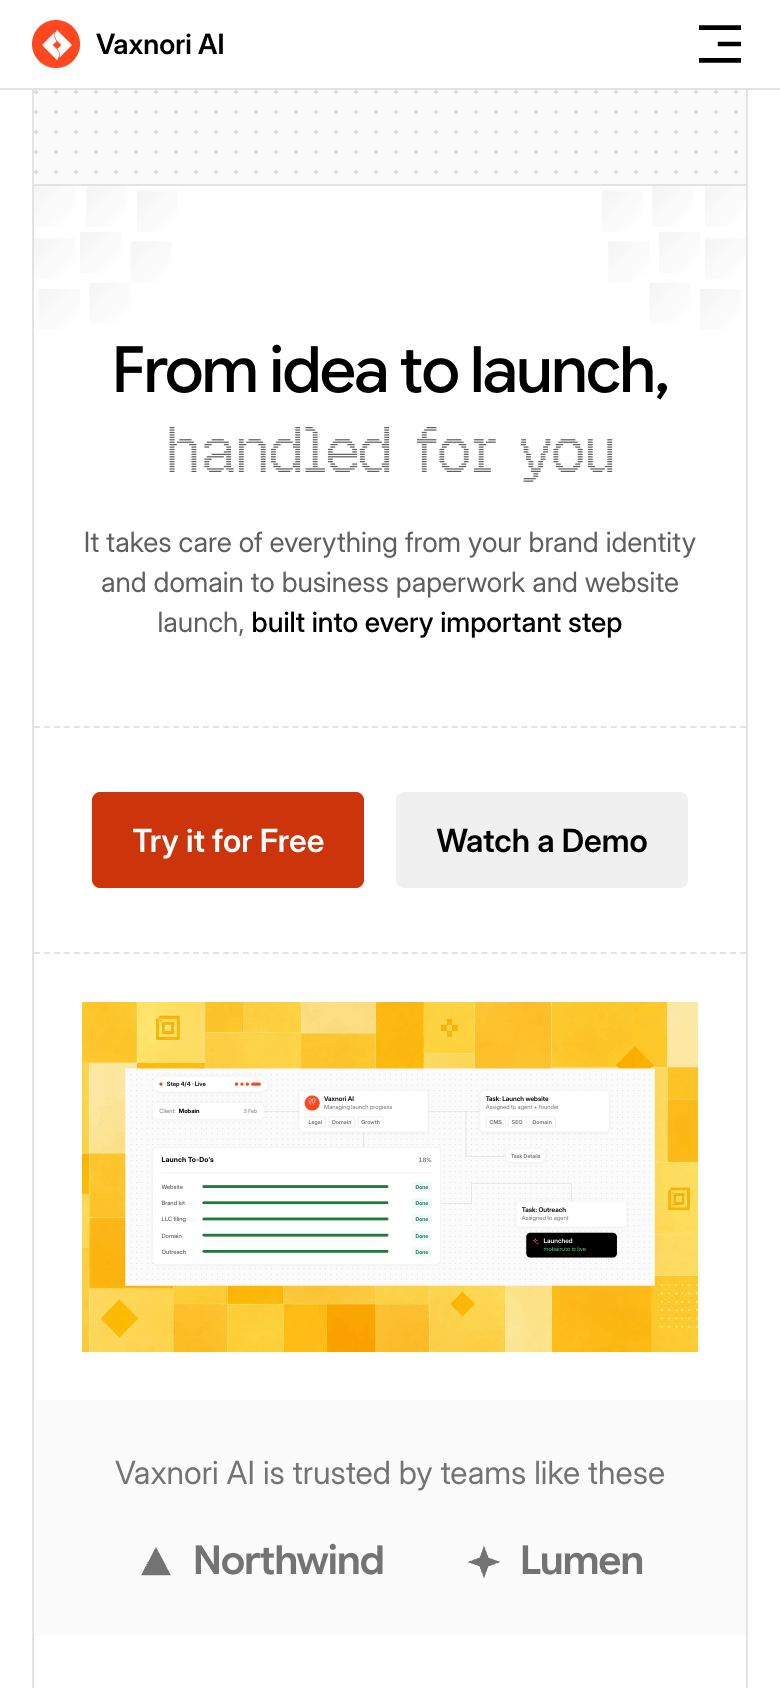
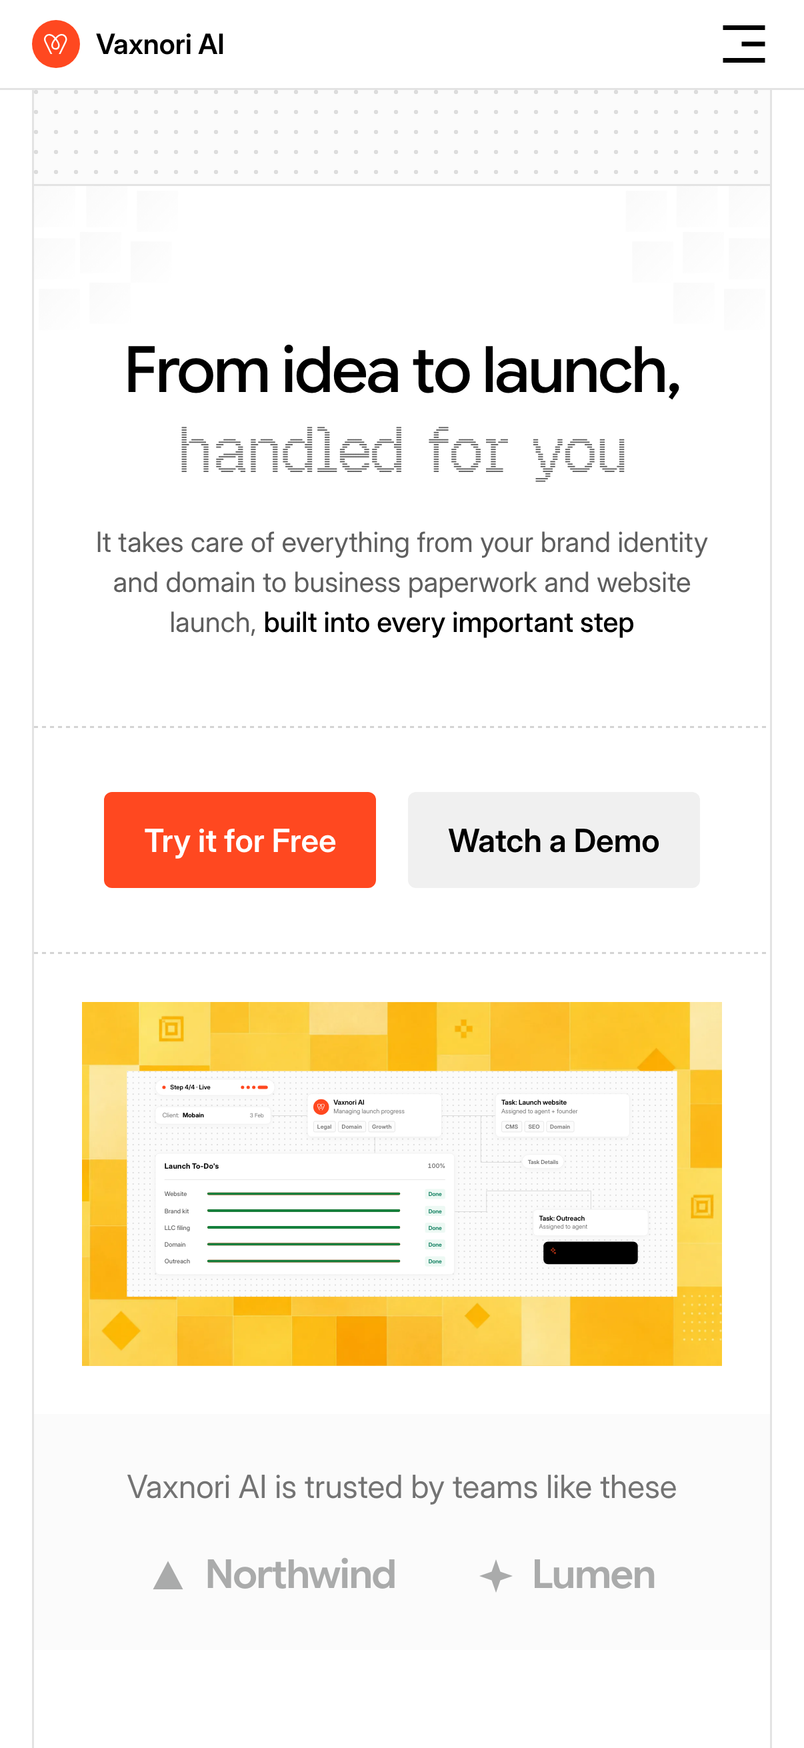
Phase 9: theme README, AGENTS.md/CLAUDE.md, new previews, docs/DECISIONS.md

diff --git a/README.md b/README.md
@@ -1,43 +1,239 @@
-# Astro Starter Kit: Minimal
+# Vaxnori AI – Astro Theme for AI and SaaS
 
-```sh
-npm create astro@latest -- --template minimal
+A free, open-source Astro theme for AI and SaaS products: 13 page types (25 pages with the sample content), smooth animations with almost no JavaScript, an MDX blog and careers section, and a design you can rebrand from one config folder.
+
+![Vaxnori AI Astro theme preview](.github/preview.png)
+
+**Live demo:** https://vaxnori-astro-theme.vercel.app
+
+No environment variables, no database, no paid services and no server are needed. The theme builds to plain static files and deploys anywhere.
+
+---
+
+## Quick start
+
+Requirements: **Node.js 22.23.4 or newer** (see `.nvmrc`).
+
+```bash
+npm create astro@latest -- --template WavespaceAgency/vaxnori-astro-theme
+cd <your-project-name>
+npm install
+npm run dev
 ```
 
-> 🧑🚀 **Seasoned astronaut?** Delete this file. Have fun!
+Open http://localhost:4321.
 
-## 🚀 Project Structure
+| Command | What it does |
+| --- | --- |
+| `npm run dev` | Start the development server |
+| `npm run build` | Build the static site into `dist/` |
+| `npm run preview` | Preview the production build locally |
+| `npm run check` | Type-check the project (`astro check`) |
 
-Inside of your Astro project, you'll see the following folders and files:
+### Deploy
 
-```text
-/
-├── public/
-├── src/
-│   └── pages/
-│       └── index.astro
-└── package.json
+[![Deploy with Vercel](https://vercel.com/button)](https://vercel.com/new/clone?repository-url=https%3A%2F%2Fgithub.com%2FWavespaceAgency%2Fvaxnori-astro-theme&project-name=vaxnori-astro-theme&repository-name=vaxnori-astro-theme)
+[![Deploy to Netlify](https://www.netlify.com/img/deploy/button.svg)](https://app.netlify.com/start/deploy?repository=https://github.com/WavespaceAgency/vaxnori-astro-theme)
+
+Any static host works (Cloudflare Pages, GitHub Pages, your own server): build command `npm run build`, output folder `dist`.
+
+---
+
+## Features
+
+**Pages**
+
+| Page | What's on it |
+| --- | --- |
+| Home | Animated product preview, logo marquee, product tabs, stats, how it works, testimonial, feature rows, integrations, FAQ |
+| About | Principles, story timeline, stats, team |
+| How it works | Video block (opens in a dialog), step-by-step rows, FAQ |
+| Pricing | Monthly / annual switch, plan cards, comparison table, FAQ |
+| Blog + post | Category filter, "load older posts", reading layout with "On this page", related posts, RSS |
+| Careers + job | Tabs with animated mockups, open roles, benefits, hiring process, job page with compensation card |
+| Contact | Contact channels, validated form, office card, locations |
+| FAQ, Privacy, Terms, 404 | Grouped accordion, legal pages with a sticky contents list |
+
+**Built with**
+
+- **Astro 7** – static output, zero UI framework (no React)
+- **Tailwind CSS 4** and **TypeScript** (strict)
+- **Motion** (plain JavaScript API) for animations – about 32 KB of JavaScript on the home page, and every animation respects "reduce motion"
+- **Content collections** with MDX for blog posts, job posts and legal pages
+- **Fontsource** fonts, self-hosted: Inter, Google Sans Flex and Geist Pixel (SIL Open Font License)
+- **astro:assets** images: AVIF/WebP, responsive sizes, width and height set (no layout shift)
+
+**Quality**
+
+- Lighthouse (mobile): Performance 99–100, Best Practices 100, SEO 100, Accessibility 96–97 (see [Colours and contrast](#colours-and-contrast))
+- Full keyboard support, skip link, visible focus, accessible menu, tabs, accordion and video dialog
+- SEO: title, description, canonical URL and Open Graph on every page, sitemap, `robots.txt`, RSS, share image per blog post,
+  JSON-LD (Organization, WebSite, FAQPage, BlogPosting, JobPosting)
+- Responsive from 320 px to 1920 px, tested at 12 widths with no horizontal scroll
+- Content first: all text, links and images are in the HTML (good for SEO); animations and interactions are small scripts added on top
+
+<img src=".github/mobile.png" alt="Vaxnori AI theme on a phone" width="260" />
+
+---
+
+## Customisation guide
+
+You can rebrand the whole theme without touching the components.
+
+### 1. Site name, links and footer – `src/config/site.ts`
+
+Name, legal name, description, email, navbar links, mobile menu, footer columns, social links, the main call to action and the two brand marks.
+
+### 2. Page text and data – `src/config/pages/*.ts`
+
+One file per page: `home.ts`, `about.ts`, `how-it-works.ts`, `pricing.ts`, `blog.ts`, `careers.ts`, `contact.ts`, `faq.ts`.
+Every heading, paragraph, button, plan, price, FAQ answer and image path lives here.
+The animated mockups (hero preview, step cards, feature rows) read their labels, numbers and steps from `home.ts` too.
+
+### 3. Colours, type and spacing – `src/styles/global.css`
+
+All design tokens are CSS variables at the top of the file:
+
+```css
+--brand: #ff4820;        /* decorative orange: shapes, icons, fills */
+--brand-strong: #ff4820; /* buttons and small orange text */
+--ink: #000000;          /* headings */
+--muted: #5e5e5e;        /* body text */
+--canvas: #fbfbfb;       /* light section background */
+--line: #e3e3e3;         /* borders */
 ```
 
-Astro looks for `.astro` or `.md` files in the `src/pages/` directory. Each page is exposed as a route based on its file name.
+Change them and the whole site follows. The type scale, radii, shadows and container width are in the `@theme` block below.
 
-There's nothing special about `src/components/`, but that's where we like to put any Astro/React/Vue/Svelte/Preact components.
+### Colours and contrast
 
-Any static assets, like images, can be placed in the `public/` directory.
+The theme uses the exact colours of the original design. White text on the orange `#ff4820` has a contrast of 3.4:1,
+which is below the WCAG AA level (4.5:1) for small text. For full WCAG AA contrast, set
+`--brand-strong: #cc340b` and `--grey-3: #737373` in `src/styles/global.css`.
 
-## 🧞 Commands
+### 4. Fonts – `src/styles/global.css`
 
-All commands are run from the root of the project, from a terminal:
+Fonts come from [Fontsource](https://fontsource.org). To change one, install another package
+(for example `npm install @fontsource-variable/manrope`), import it at the top of `global.css`
+and update `--font-sans`, `--font-heading` or `--font-pixel`.
 
-| Command                   | Action                                           |
-| :------------------------ | :----------------------------------------------- |
-| `npm install`             | Installs dependencies                            |
-| `npm run dev`             | Starts local dev server at `localhost:4321`      |
-| `npm run build`           | Build your production site to `./dist/`          |
-| `npm run preview`         | Preview your build locally, before deploying     |
-| `npm run astro ...`       | Run CLI commands like `astro add`, `astro check` |
-| `npm run astro -- --help` | Get help using the Astro CLI                     |
+### 5. Images and logos
 
-## 👀 Want to learn more?
+| Location | Contents |
+| --- | --- |
+| `src/assets/images/` | Page images, grouped by page. Astro optimises them. Config files refer to them as `/images/...` |
+| `public/brand/` | `mark.svg` (desktop) and `mark-alt.svg` (mobile, stats) |
+| `public/favicon.svg` | Favicon |
+| `public/og.png` | Default share image (1200×630) |
 
-Feel free to check [our documentation](https://docs.astro.build) or jump into our [Discord server](https://astro.build/chat).
+The placeholder customer logos on Home are drawn in code – replace `homePage.logos` in `src/config/pages/home.ts`.
+
+### 6. Add a blog post
+
+Create `src/content/blog/my-post.mdx`:
+
+```mdx
+---
+title: "My first post"
+excerpt: "One or two sentences for the card and search engines."
+category: "Launch playbooks" # one of the tabs in src/config/pages/blog.ts
+date: "2026-10-01"
+readingTime: "4 min read"
+image: "../../assets/images/blog/my-post.webp" # 1456×800 works best
+imageAlt: "Describe the image"
+author:
+  name: "Your Name"
+  avatar: "../../assets/images/blog/author.webp"
+---
+
+Write your post in **Markdown**. `## Headings` appear in "On this page".
+```
+
+The file name becomes the URL (`/blog/my-post`). The post is added to the blog list, the sitemap and the RSS feed,
+and gets its own share image. Set `featured: true` to show it at the top of the blog page.
+In MDX you can also use `<Figure>`, `<Callout>` and `<Timeline>` (see `src/components/mdx/`).
+
+### 7. Add a job
+
+Copy any file in `src/content/careers/`, rename it (the file name is the URL) and edit the frontmatter and text.
+It appears in the roles table automatically. Use `order` to sort the roles.
+
+### 8. Legal pages
+
+Edit `src/content/legal/privacy.mdx` and `terms.mdx`. The sample text is a placeholder – have it reviewed by your own lawyer.
+
+### 9. Forms
+
+The contact form and the newsletter form check the fields in the browser. To receive the messages, open
+`src/components/contact/ContactForm.astro` (`send()`) and `src/components/layout/NewsletterForm.astro` (`subscribe()`)
+and connect your provider at the `TODO` (a form service such as Formspree or Web3Forms, Resend, Mailchimp, a webhook, …).
+
+### 10. Video
+
+Add an `.mp4` file or a YouTube/Vimeo embed URL to `video.src` in `src/config/pages/how-it-works.ts`.
+The video only loads when someone opens it.
+
+### 11. Site URL
+
+Set `site` in `astro.config.mjs` to your domain (or set the `SITE_URL` environment variable).
+It is used for canonical links, the sitemap, RSS and share images. On Vercel the production URL is detected automatically.
+
+### 12. Animations
+
+Add `data-reveal` to any element to fade it in on scroll, or `data-stagger` on a list with `data-stagger-item` on its items.
+All options are documented at the top of `src/scripts/motion.ts`.
+
+---
+
+## Project structure
+
+```
+src/
+  pages/                Routes: pages, blog/[slug], careers/[slug], 404, rss.xml, robots.txt, manifest
+  layouts/              BaseLayout.astro – <head>, SEO tags, JSON-LD, header, footer
+  components/
+    layout/             Header, desktop nav, mobile menu, footer, newsletter form
+    sections/           Page sections (hero, pricing, FAQ, CTA, animated mockups, …)
+    blog/ careers/ contact/
+    mdx/                Styles for MDX content + <Figure>, <Callout>, <Timeline>
+    motion/             ScaleToFit (fixed-size mockups that scale on phones)
+    ui/                 Button, container, eyebrow, badge, heading, accordion, logo
+    icons/              Brand marks, UI icons and line icons
+  config/
+    site.ts             Name, URL, navigation, footer, socials
+    pages/*.ts          Text and data for every page
+  content/
+    blog/*.mdx          Blog posts
+    careers/*.mdx       Job posts
+    legal/*.mdx         Privacy and terms
+  content.config.ts     Content collections and their fields
+  scripts/              motion.ts (scroll reveals, count-up, scale) and loop.ts (mockup loops)
+  lib/                  Content helpers, image lookup, SEO helpers, utils
+  assets/images/        Optimised images
+  styles/global.css     Tailwind, fonts and design tokens
+public/                 Brand marks, favicon, share image, SVG patterns
+docs/DECISIONS.md       Design and build notes (what changed from the Figma file and why)
+```
+
+---
+
+## Credits
+
+- **Design:** Vaxnori AI by [Wavespace](https://www.wavespace.agency)
+- **Fonts:** [Inter](https://fonts.google.com/specimen/Inter), [Google Sans Flex](https://fonts.google.com/specimen/Google+Sans+Flex),
+  [Geist Pixel](https://fonts.google.com/specimen/Geist+Pixel) – SIL Open Font License 1.1, via Fontsource
+- **Images:** AI-generated or made by Wavespace for this theme – free to use with the theme
+- **Icons:** custom line icons in `src/components/icons/`
+- **Customer logos:** neutral placeholders (Acme, Logoipsum, …) – not real companies
+
+**Footer credit:** the footer shows "Designed & developed by Wavespace". You are free to keep, change or remove it –
+edit or delete `credit` in `siteConfig.footer` (`src/config/site.ts`). The MIT license only asks you to keep the
+`LICENSE` file, not the footer line.
+
+All names, numbers, quotes and people in the sample content are fictional.
+
+A Next.js version of this design is also available: [vaxnori-nextjs-template](https://github.com/WavespaceAgency/vaxnori-nextjs-template).
+
+## License
+
+[MIT](LICENSE) © 2026 Wavespace

diff --git a/AGENTS.md b/AGENTS.md
@@ -1,22 +1,57 @@
-## Development
+# AGENTS.md – notes for AI coding agents
 
-When starting the dev server, use background mode:
+Vaxnori AI is a static Astro theme (marketing site for an AI/SaaS product). Read this before changing code.
 
+## Stack
+
+- Astro 7, static output (no adapter, no server code, no environment variables required)
+- Tailwind CSS 4 via `@tailwindcss/vite`; design tokens in `src/styles/global.css`
+- TypeScript strict; MDX via `@astrojs/mdx`; sitemap and RSS
+- Animations: `motion` (plain JS API) inside Astro `<script>` tags. **No React or other UI framework** – keep it that way.
+
+## Commands
+
+```bash
+npm run dev       # dev server on http://localhost:4321 (use `astro dev --background` for a background server)
+npm run check     # astro check – must report 0 errors
+npm run build     # static build into dist/ – must finish without warnings
+npm run preview   # serve dist/
 ```
-astro dev --background
-```
 
-Manage the background server with `astro dev stop`, `astro dev status`, and `astro dev logs`.
+Run `npm run check` and `npm run build` after every change.
 
-## Documentation
+## Where things live
 
-Full documentation: https://docs.astro.build
+| What | Where |
+| --- | --- |
+| Site name, nav, footer, socials, CTA | `src/config/site.ts` |
+| All page text and data | `src/config/pages/*.ts` |
+| Colours, fonts, type scale, radii | `src/styles/global.css` |
+| Blog posts / jobs / legal pages | `src/content/{blog,careers,legal}/*.mdx` (schemas in `src/content.config.ts`) |
+| Pages and routes | `src/pages/` |
+| `<head>`, SEO, JSON-LD, header and footer | `src/layouts/BaseLayout.astro` |
+| Sections / UI / layout components | `src/components/{sections,ui,layout}/` |
+| MDX element styles and custom tags | `src/components/mdx/` |
+| Scroll animations (data attributes) | `src/scripts/motion.ts` |
+| Mockup loop helpers | `src/scripts/loop.ts` |
+| Images (optimised) | `src/assets/images/`, looked up by path with `getImage()` from `src/lib/images.ts` |
+| Build and design decisions | `docs/DECISIONS.md` |
 
-Consult these guides before working on related tasks:
+## Rules
 
-- [Adding pages, dynamic routes, or middleware](https://docs.astro.build/en/guides/routing/)
-- [Working with Astro components](https://docs.astro.build/en/basics/astro-components/)
-- [Using React, Vue, Svelte, or other framework components](https://docs.astro.build/en/guides/framework-components/)
-- [Adding or managing content](https://docs.astro.build/en/guides/content-collections/)
-- [Adding styles or using Tailwind](https://docs.astro.build/en/guides/styling/)
-- [Supporting multiple languages](https://docs.astro.build/en/guides/internationalization/)
+1. **Config-driven:** never hard-code visible text in components. Put it in `src/config/` or a content file and pass it as props.
+2. **Use the tokens:** use the Tailwind classes generated from the tokens (`bg-brand`, `text-ink`, `border-line`, `font-heading-flex`,
+   `text-h2`, `rounded-card` …) instead of new hex values.
+3. **Images:** put new images in `src/assets/images/` and render them with `<Image />` from `astro:assets` (set `widths` and `sizes`).
+4. **Animations:** prefer the data attributes (`data-reveal`, `data-stagger` + `data-stagger-item`, `data-count`).
+   New scripts must respect reduced motion (`reduceMotion()` from `src/scripts/motion.ts`) and must not hide content without JavaScript.
+5. **Accessibility:** one `h1` per page, headings in order, real `<a>` and `<button>`, labels on inputs, `aria-*` on toggles,
+   visible focus. Keep the skip link.
+6. **Whitespace in templates:** inside `{ … }` expressions Astro follows JSX whitespace rules – write `{" "}` between
+   text and a following tag (for example `{title}{" "}<span>…</span>`).
+7. **Placeholder data only:** emails and URLs use `example.com`; social links point to the platform home page.
+8. Keep the theme dependency-light and every dependency public and MIT-compatible.
+
+## Astro docs
+
+https://docs.astro.build – routing, components, content collections, images, styling.

diff --git a/docs/DECISIONS.md b/docs/DECISIONS.md
@@ -3,7 +3,7 @@
 This theme is a port of the Vaxnori AI Next.js template
 (github.com/WavespaceAgency/vaxnori-nextjs-template), which was built pixel-perfect from the Figma file.
 All Figma decisions from that build still apply (missing frames, typo fixes, legal-safe content).
-This file lists only what is new or different in the Astro version. It moves into the README at the end.
+This file lists only what is new or different in the Astro version. Linked from the README.
 
 ## Phase 0 – Rights (Astro rules)
 - Design owned by Wavespace, not sold; images AI-made or own; fonts SIL OFL → free MIT release OK.
@@ -117,3 +117,14 @@ This file lists only what is new or different in the Astro version. It moves int
   The real `npm create astro@latest -- --template WavespaceAgency/vaxnori-astro-theme` test runs after the GitHub push (Phase 10).
 - Repo hygiene: 175 tracked files, no dist / node_modules / .env / QA files.
   Still to replace in Phase 9: default README, starter AGENTS.md, `.github/preview.png` (currently the Next.js screenshot).
+
+## Phase 9 – Theme packaging
+- **README** replaced (the portal rejects the default): name, preview, demo link, `npm create astro -- --template` quick start,
+  deploy buttons (Vercel, Netlify), features, Lighthouse scores, a 12-step customisation guide, structure, credits, licence.
+  Accessibility is reported honestly as 96–97 with the one-line WCAG AA colour switch.
+- **AGENTS.md** rewritten for AI coding agents (stack, commands, folder map, config-driven rule, whitespace gotcha);
+  **CLAUDE.md** points to it.
+- **Preview images** re-shot from the Astro build: `.github/preview.png` (2400×1350, 16:9) and `.github/mobile.png`.
+- `DECISIONS.md` moved to `docs/DECISIONS.md` and linked from the README.
+- `@astrojs/markdown-satteri` stays: Astro 7 imports it as its default Markdown engine.
+- **Demo URL** in the README and package.json is the planned `https://vaxnori-astro-theme.vercel.app` – confirm after deploy (Phase 10).

diff --git a/CLAUDE.md b/CLAUDE.md
@@ -1,0 +1,3 @@
+# CLAUDE.md
+
+Read and follow [AGENTS.md](AGENTS.md) – it has the stack, commands, folder map and rules for this theme.
